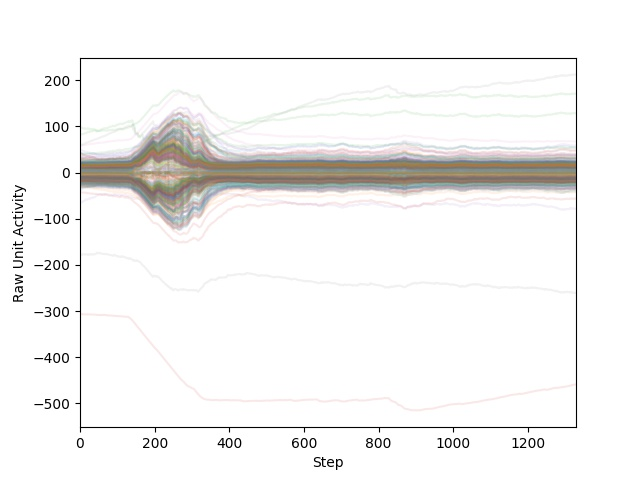
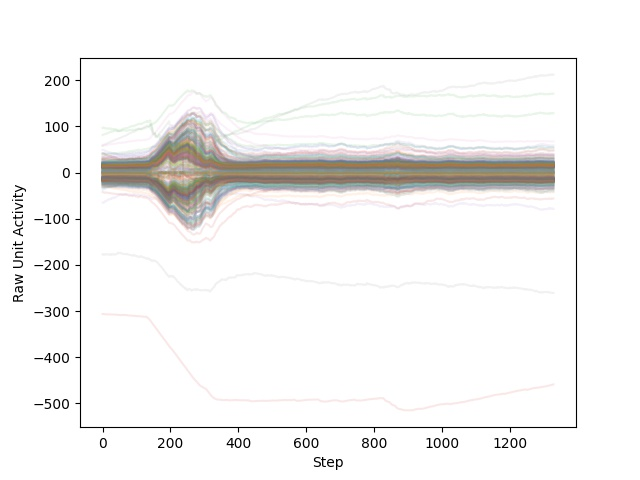
Updated fish-wall adjustment, to account for new thicker walls.

diff --git a/Buffers/DQN/dqn_assay_buffer.py b/Buffers/DQN/dqn_assay_buffer.py
@@ -159,8 +159,8 @@ class DQNAssayBuffer:
 
         if self.use_dynamic_network:
             for layer in self.unit_recordings.keys():
-                self.create_data_group(layer, np.array(self.unit_recordings[layer]), assay_group)
-            self.create_data_group("rnn_state_actor", np.array(self.rnn_state_buffer), assay_group)
+                self.create_data_group(layer, np.array(self.unit_recordings[layer]).squeeze(), assay_group)
+            self.create_data_group("rnn_state_actor", np.array(self.rnn_state_buffer).squeeze(), assay_group)
 
             self.internal_state_buffer = np.array(self.internal_state_buffer)
             self.internal_state_buffer = np.reshape(self.internal_state_buffer, (-1, len(internal_state_order)))
@@ -178,7 +178,7 @@ class DQNAssayBuffer:
 
         else:
             if "rnn state" in self.unit_recordings:
-                self.create_data_group("rnn_state_actor", np.array(self.rnn_state_buffer), assay_group)
+                self.create_data_group("rnn_state_actor", np.array(self.rnn_state_buffer).squeeze(), assay_group)
 
             if "internal state" in self.unit_recordings:
                 self.internal_state_buffer = np.array(self.internal_state_buffer)
@@ -197,14 +197,14 @@ class DQNAssayBuffer:
 
             if "convolutional layers" in self.unit_recordings:
                 self.organise_conv_recordings()
-                self.create_data_group("conv1l", np.array(self.conv_layer_buffer[0]), assay_group)
-                self.create_data_group("conv2l", np.array(self.conv_layer_buffer[1]), assay_group)
-                self.create_data_group("conv3l", np.array(self.conv_layer_buffer[2]), assay_group)
-                self.create_data_group("conv4l", np.array(self.conv_layer_buffer[3]), assay_group)
-                self.create_data_group("conv1r", np.array(self.conv_layer_buffer[4]), assay_group)
-                self.create_data_group("conv2r", np.array(self.conv_layer_buffer[5]), assay_group)
-                self.create_data_group("conv3r", np.array(self.conv_layer_buffer[6]), assay_group)
-                self.create_data_group("conv4r", np.array(self.conv_layer_buffer[7]), assay_group)
+                self.create_data_group("conv1l", np.array(self.conv_layer_buffer[0]).squeeze(), assay_group)
+                self.create_data_group("conv2l", np.array(self.conv_layer_buffer[1]).squeeze(), assay_group)
+                self.create_data_group("conv3l", np.array(self.conv_layer_buffer[2]).squeeze(), assay_group)
+                self.create_data_group("conv4l", np.array(self.conv_layer_buffer[3]).squeeze(), assay_group)
+                self.create_data_group("conv1r", np.array(self.conv_layer_buffer[4]).squeeze(), assay_group)
+                self.create_data_group("conv2r", np.array(self.conv_layer_buffer[5]).squeeze(), assay_group)
+                self.create_data_group("conv3r", np.array(self.conv_layer_buffer[6]).squeeze(), assay_group)
+                self.create_data_group("conv4r", np.array(self.conv_layer_buffer[7]).squeeze(), assay_group)
 
         if "environmental positions" in self.recordings:
             self.create_data_group("action", np.array(self.action_buffer), assay_group)

diff --git a/Environment/base_environment.py b/Environment/base_environment.py
@@ -627,15 +627,15 @@ class BaseEnvironment:
         position_x = self.fish.body.position[0]
         position_y = self.fish.body.position[1]
 
-        if position_x < 1:
-            new_position_x = 4
-        elif position_x > self.env_variables["width"] - 3:
-            new_position_x = self.env_variables["width"] - 7
+        if position_x < 8:
+            new_position_x = 10
+        elif position_x > self.env_variables["width"] - 7:
+            new_position_x = self.env_variables["width"] - 9
 
-        if position_y < 1:
-            new_position_y = 4
-        elif position_y > self.env_variables["height"] - 3:
-            new_position_y = self.env_variables["height"] - 7
+        if position_y < 8:
+            new_position_y = 10
+        elif position_y > self.env_variables["height"] - 7:
+            new_position_y = self.env_variables["height"] - 9
 
         if "new_position_x" in locals():
             new_position = pymunk.Vec2d(new_position_x, self.fish.body.position[1])

diff --git a/Analysis/Neural/Systems/behavioural_context_pca.py b/Analysis/Neural/Systems/behavioural_context_pca.py
@@ -111,7 +111,7 @@ def plot_pca_with_all_behavioural_periods_multiple_trials_2(datas, model_name, d
     for data in datas:
         if selected_neurons is None:
             if remove_value_stream:
-                rnn_data = data["rnn_state_actor"][:, 0, 0, :256]
+                rnn_data = data["rnn_state_actor"][:, 0, 0, 0, :256] # TODO: Get rid of...
             else:
                 rnn_data = data["rnn_state_actor"][:, 0, 0, :]
         else:

diff --git a/Analysis/Neural/Visualisation/all_neuron_traces_single_plot.py b/Analysis/Neural/Visualisation/all_neuron_traces_single_plot.py
@@ -29,7 +29,7 @@ def display_rnn_traces_many_trials(model_name, assay_config, assay_id, n):
     for i in range(n):
         for neur in range(n_neurons):
             plt.plot(neuron_traces[neur][i], alpha=0.1)
-        plt.xlim(0, min_trial_length)
+        # plt.xlim(0, min_trial_length)
         plt.xlabel("Step")
         plt.ylabel("Raw Unit Activity")
 

diff --git a/Analysis/Neural/Tools/normalise_activity.py b/Analysis/Neural/Tools/normalise_activity.py
@@ -3,7 +3,6 @@ import numpy as np
 
 def normalise_within_neuron_multiple_traces(neuron_traces, zero_score_start=False):
     normalised_neuron_traces = []
-    neuron_traces = neuron_traces[0]  # TODO: Get RID
     for n in range(len(neuron_traces)):
         if zero_score_start:
             neuron_traces[n] -= neuron_traces[n][0]
